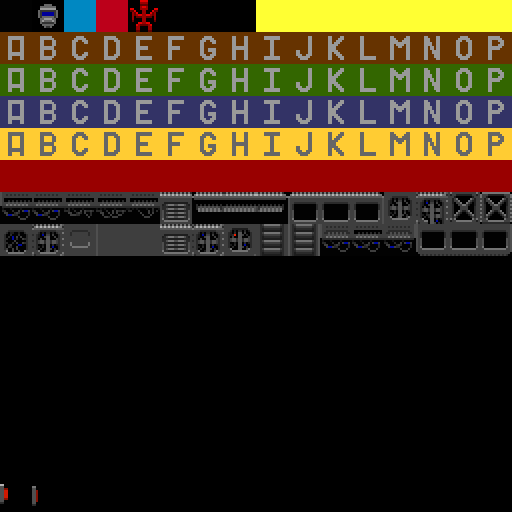
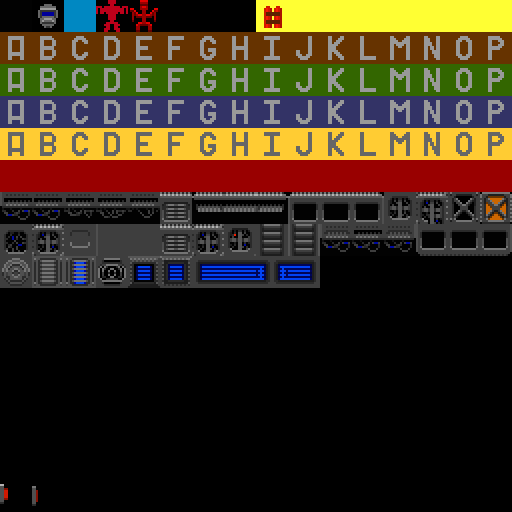
exits

diff --git a/js/html5.js b/js/html5.js
@@ -79,6 +79,7 @@ var particles = new Array(max_particles);
 var robotX;
 var robotY;
 var has_jetpack;
+var jetpack_fuel;
 var grounded = true;
 var crouching = false;
 var player_dead = false;
@@ -150,10 +151,9 @@ images['door_4'] = new Image();
 images['jetpack_icon'] = new Image();
 
 
-
 function load_map(level) {
     var request = new XMLHttpRequest();
-    request.open('GET', 'http://tsaker/maps/level_'+level+'.txt');
+    request.open('GET', 'http://scoab/maps/level_'+level+'.txt');
     request.onreadystatechange = function() {
         if (request.readyState != 4 || request.status != 200) {
           return;
@@ -276,7 +276,11 @@ function initialize_player() {
             robotY = y * 32 - 20;
         }
     });
-    has_jetpack = false;
+    //has_jetpack = false;
+    //jetpack_fuel = 0;
+    has_jetpack = true;
+    jetpack_fuel = 200;
+
 }
 
 function make_entities() {
@@ -391,6 +395,14 @@ function make_entity(x, y, type) {
         entity.current_anim = door_anim[ACTIVATED];
         entity.frame = entity.current_anim.length - 1;
         entity.state = ACTIVATED;
+    } else if (type == '15') {
+        console.log('made an exit');
+        //entity.image = new Image();
+        //entity.image = images['jetpack_icon'];
+        //entity.image = images['door_2'];
+        entity.current_anim = door_anim[ACTIVATED];
+        //entity.frame = entity.current_anim.length - 1;
+        entity.state = ACTIVATED;
     } else {
         console.log('made something else');
         entity.image = new Image();
@@ -440,7 +452,6 @@ function make_enemy(x, y, type) {
     enemy.bullet_timer = 21;
     enemy.alive = true;
     return enemy;
-
 }
 
 function make_enemy_bullets() {
@@ -469,7 +480,7 @@ function make_bullets() {
 }
 
 function animate() {
-    requestAnimFrame(animate);
+    window.requestAnimFrame(animate);
     game_loop();
 }
 
@@ -593,9 +604,11 @@ function move_stuff() {
 
 function draw_hud() {
     ctx.drawImage(tile_img, 0, 0, canvas.width, 15);
-    draw_text("X : " + robotX, 5, 2);
-    draw_text("Y : " + robotY, 120, 2);
-    draw_text("frame: " + robotFrame, 200, 2);
+    if(jetpack_fuel > 0) {
+        draw_text("JETPACK", 5, 2);
+        ctx.fillStyle = "#990000";
+        drawRectangle(92, 2, jetpack_fuel, 10, true);
+    }
 }
 
 function fire_particles(x, y, size, col) {
@@ -664,16 +677,25 @@ function move_enemies() {
 }
 
 function move_entities() {
-    for(var i = 0; i < entities.length; ++i) {
+    var i;
+    for(i = 0; i < entities.length; ++i) {
         if(entities[i].type > 8 && entities[i].type < 16) {
             if(intersect(robotX, robotY+32,32, 32, entities[i].x, entities[i].y, 32, 32 )) {
-                entities[i].alive = 0;
-                has_jetpack = true;
+                if(entities[i].type == 10) {
+                    entities[i].alive = 0;
+                    has_jetpack = true;
+                    jetpack_fuel = 200;
+                } else if(entities[i].type == 15) {
+                    current_level++;
+                    load_map(current_level);
+                }
             }
         }
-
     }
-    for(var i = 0; i < entities.length; ++i) {
+    if(jetpack_fuel < 0) {
+        has_jetpack = false;
+    }
+    for(i = 0; i < entities.length; ++i) {
         if(entities[i].type > 15 && entities[i].type < 32) {
             if(intersect(entities[i].x, entities[i].y, 32, 32, robotX, robotY, 32, 32)) {
                 if(!entities[i].is_being_pushed && entities[i].state == ACTIVATED) {
@@ -769,15 +791,15 @@ function drawRectangle(x, y, w, h, fill) {
 
 function enemy_fire(x, y, direc) {
 
-        for(var i = 0; i < enemy_bullets.length; ++i) {
-            if(!enemy_bullets[i].alive) {
-                enemy_bullets[i].x = x + 26;
-                enemy_bullets[i].y = y + 16;
-                enemy_bullets[i].direction = direc;
-                enemy_bullets[i].alive = true;
-                break;
-            }
+    for(var i = 0; i < enemy_bullets.length; ++i) {
+        if(!enemy_bullets[i].alive) {
+            enemy_bullets[i].x = x + 26;
+            enemy_bullets[i].y = y + 16;
+            enemy_bullets[i].direction = direc;
+            enemy_bullets[i].alive = true;
+            break;
         }
+    }
 }
 
 function dude_fire() {
@@ -843,9 +865,11 @@ function draw_entities() {
             if(entities[i].frame >= entities[i].current_anim.length) {
                 entities[i].frame = entities[i].current_anim.length - 1;
             }
-            ctx.drawImage(entities[i].image,
-                entities[i].current_anim[entities[i].frame] * 32, 0, 32, 32,
-                entities[i].x + window_x,entities[i].y + window_y, 32, 32);
+            if(entities[i] && entities[i].image) {
+                ctx.drawImage(entities[i].image,
+                    entities[i].current_anim[entities[i].frame] * 32, 0, 32, 32,
+                    entities[i].x + window_x,entities[i].y + window_y, 32, 32);
+            }
         }
     }
 }
@@ -871,7 +895,7 @@ function draw_text(str, x, y) {
         var sx = index%10 * 10;
         var sy = Math.floor(index/10) * 10;
         ctx.drawImage(font_img, sx, sy, 10, 10,
-                      x + (i * 10) , y, 10, 10);
+                      x + (i * 12) , y, 10, 10);
     }
 }
 
@@ -892,7 +916,7 @@ function get_input() {
     }
     if(!player_dead) {
         var standing = true;
-        if ((37 in keys && keys[37]) || (21 in keys && keys[21]) || (65 in keys && keys[65])){ //left
+        if (37 in keys && keys[37]) { // || (21 in keys && keys[21]) || (65 in keys && keys[65])){ //left
             if(!crouching) {
                 robotX -= 3;
             }
@@ -916,7 +940,7 @@ function get_input() {
         } else {
             inertiaX -= 1;
         }
-        if ((39 in keys && keys[39]) || (22 in keys && keys[22]) || (68 in keys && keys[68])){ //right
+        if (39 in keys && keys[39]) { //|| (22 in keys && keys[22]) || (68 in keys && keys[68])){ //right
             if(!crouching) {
                 //inertiaX += 1;
                 robotX += 3;
@@ -957,6 +981,7 @@ function get_input() {
             }
             if(has_jetpack) {
                 inertiaY = -4;
+                jetpack_fuel -= 1;
                 if(direction > 0) {
                     current_anim = anim[JET_LEFT];
                 } else {
